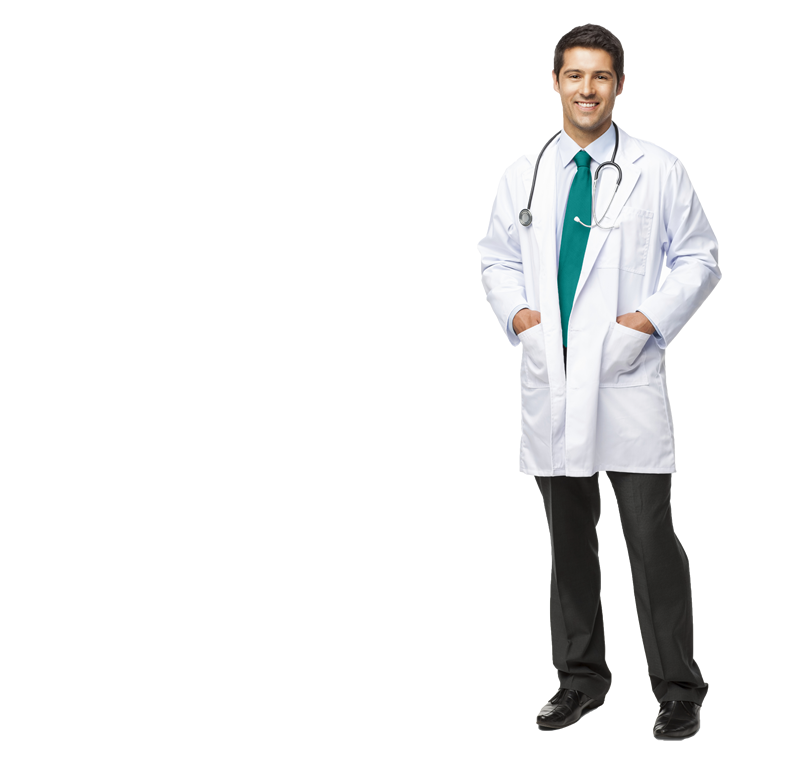
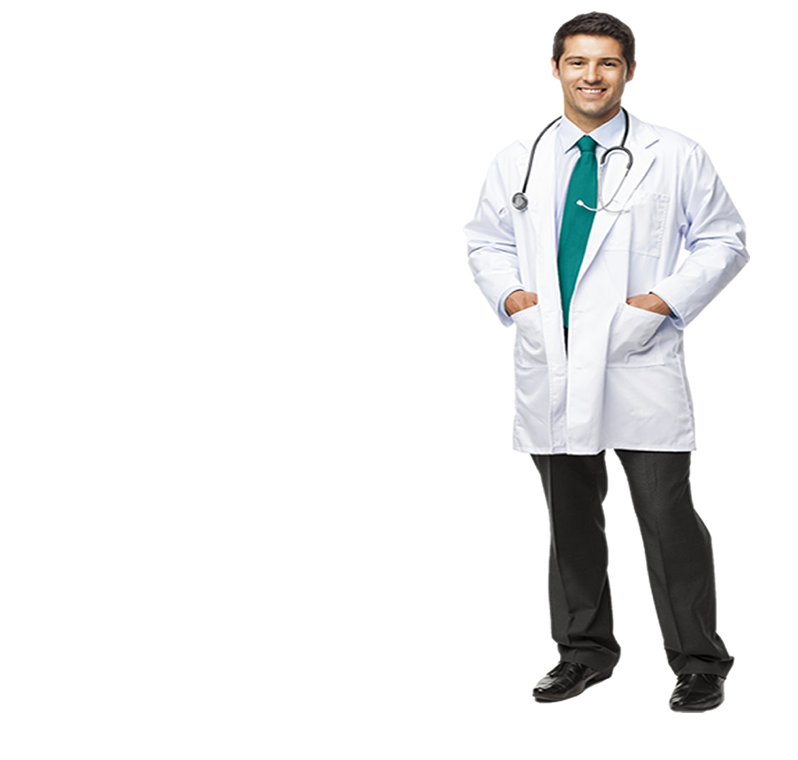
actualizacion tamaño de imagenes fondo

Changed region(s): [[0.5714, 0.0, 0.9624, 0.9987], [0.6617, 0.7263, 0.7218, 0.7868]]

diff --git a/public/assets/online/css/style.css b/public/assets/online/css/style.css
@@ -3722,7 +3722,7 @@ a.box_feat_about {
 
 .bg_color_2 {
   /*background: #00c3a5;  /*url(../img/iniciarr.png) repeat fixed }*/
-  background: url(../img/iniciadoc.png) no-repeat right center #00c3a5 ;
+  background: url(../img/iniciadoc.png) no-repeat right top #00c3a5 ;
   -webkit-background-size: cover;
   -moz-background-size: cover;
   -o-background-size: cover;
